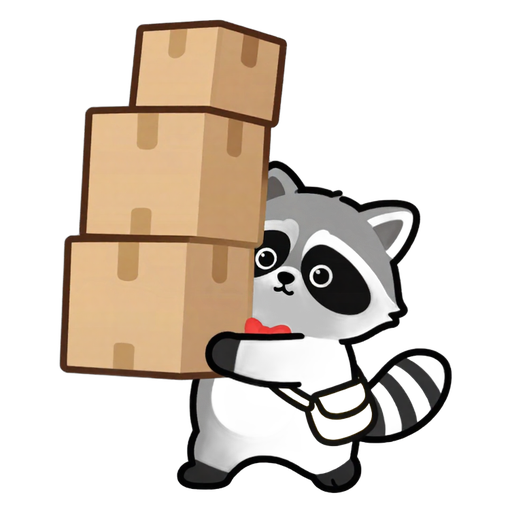
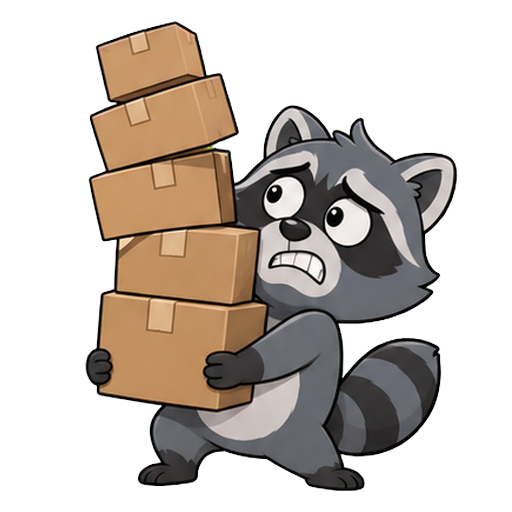
feat: 花生、小老鼠、楊捷睿、狗狗警長換新造型；冷、捷、睿用上新姿勢
五個明星都改用 Codex 生的九宮格，各 27 個姿勢、同一種畫風。
小老鼠改成爸爸影片裡的紅頭巾忍者造型。

diff --git a/src/anim/clips/捷.ts b/src/anim/clips/捷.ts
@@ -5,7 +5,7 @@ import { FIXED_LINES } from '../../../shared/voice-lines.mjs'
 // 捷（v2）：楊捷睿要搭捷運——每次他跑到車門口、手一伸，捷運就「咻」地開走，那陣風把他捲得一次比一次遠：
 // 原地轉一圈（扌從他伸出去的手飛出來）、滾到畫面邊、先停一拍再被捲上天（右邊從捷運剛停的地方飛起來）。
 // 回馬槍：捷運再進站，這次他搶先跳上車頂比 ✌——捷運「咻」地從他腳底下開走，他懸在半空傻眼，才掉下來。
-// 最後畫面暗下來只剩「捷」，他轉向觀眾問「這是什麼字？」，等他回答，再跳起來指著它說「捷！」，然後退場只留字。
+// 最後畫面暗下來只剩「捷」，他轉向觀眾問「這是什麼字？」，手放耳邊等他回答，再跳起來指著它說「捷！」，然後退場只留字。
 // 捷、捷、捷運、這是什麼字？、捷
 const P = 66.9 // 楊捷睿（size 24）站在地上的 y
 const T = 54.3 // 捷運（size 54）
@@ -71,7 +71,8 @@ const clip: Clip = {
   bg: { top: '#CFE8FF', bottom: '#F2F8FF', floor: '#B9C0C8', scenery: 'city' },
   actors: [
     { id: 'train', emoji: '🚈', x: TX, y: T, size: 54, flip: true },
-    { id: 'yang', emoji: 'hero:yang/idle', x: HOME, y: P, size: 24, hidden: true },
+    // 姿勢圖朝左，翻過來面向右邊的捷運（問他時也面向右邊的字）
+    { id: 'yang', emoji: 'hero:yang/idle', x: HOME, y: P, size: 24, hidden: true, flip: true },
   ],
   moves: [
     // 楊捷睿登場，抬頭看字框，看到捷運：要坐！
@@ -79,6 +80,7 @@ const clip: Clip = {
     { at: 0.5, actor: 'yang', do: 'swap', emoji: 'hero:yang/happy' },
     // 第 1 次：跑到車門口、手一伸——咻，傻眼，原地轉一圈退回去
     { at: 1.0, actor: 'yang', do: 'moveTo', to: { x: DOOR, y: P }, dur: 0.4 },
+    { at: 1.35, actor: 'yang', do: 'swap', emoji: 'hero:yang/reach' },
     { at: 1.35, actor: 'yang', do: 'tilt', amount: -12, dur: 0.3 },
     ...z1.moves,
     { at: H1 + HOLD, actor: 'yang', do: 'moveTo', to: { x: HOME, y: P }, arc: 6, dur: 0.35, ease: 'out' },
@@ -87,6 +89,7 @@ const clip: Clip = {
     // 第 2 次：再跑過去——咻，傻眼，整個人滾到畫面邊
     { at: 2.5, actor: 'yang', do: 'swap', emoji: 'hero:yang/idle' },
     { at: 2.95, actor: 'yang', do: 'moveTo', to: { x: DOOR, y: P }, dur: 0.4, ease: 'in' },
+    { at: 3.3, actor: 'yang', do: 'swap', emoji: 'hero:yang/reach' },
     { at: 3.3, actor: 'yang', do: 'tilt', amount: -12, dur: 0.3 },
     ...z2.moves,
     { at: H2 + HOLD, actor: 'yang', do: 'moveTo', to: { x: 14, y: P }, dur: 0.45, ease: 'out' },
@@ -98,6 +101,7 @@ const clip: Clip = {
     { at: 4.95, actor: 'yang', do: 'moveTo', to: { x: DOOR, y: P }, dur: 0.5 },
     { at: 5.45, actor: 'yang', do: 'swap', emoji: 'hero:yang/think' },
     { at: 5.5, actor: 'yang', do: 'tilt', amount: -8, dur: 0.4 },
+    { at: H3 - 0.25, actor: 'yang', do: 'swap', emoji: 'hero:yang/reach' },
     { at: 5.4, actor: 'train', do: 'shake', amount: 0.5, dur: 0.2 },
     ...z3.moves,
     { at: H3 + HOLD, actor: 'yang', do: 'moveTo', to: { x: 200, y: 30 }, dur: 0.4, ease: 'in' },
@@ -114,20 +118,23 @@ const clip: Clip = {
     { at: 9.55, actor: 'yang', do: 'moveTo', to: { x: ROOF_X, y: ROOF_Y }, arc: 10, dur: 0.4, ease: 'out' },
     ...z4.moves,
     { at: H4 + 0.55, actor: 'yang', do: 'moveTo', to: { x: ROOF_X, y: P }, dur: 0.25, ease: 'in' },
-    { at: H4 + 0.8, actor: 'yang', do: 'swap', emoji: 'hero:yang/dizzy' },
+    { at: H4 + 0.8, actor: 'yang', do: 'swap', emoji: 'hero:yang/flat' },
     // 問他：他變大、走到左前方，轉向觀眾
     { at: 11.15, actor: 'yang', do: 'swap', emoji: 'hero:yang/idle' },
     { at: 11.15, actor: 'yang', do: 'scaleTo', amount: 1.5, dur: 0.3, ease: 'back' },
     { at: 11.15, actor: 'yang', do: 'moveTo', to: { x: 34, y: P + 4 }, dur: 0.3 },
     // 安靜等他回答：身體往字那邊傾、點兩下頭
+    { at: 12.15, actor: 'yang', do: 'swap', emoji: 'hero:yang/listen' },
     { at: 12.15, actor: 'yang', do: 'rotateTo', amount: 10, dur: 0.3 },
     { at: 12.65, actor: 'yang', do: 'hop', amount: 1.5, dur: 0.3 },
     { at: 13.15, actor: 'yang', do: 'hop', amount: 1.5, dur: 0.3 },
     // 回答：跳起來
     { at: 13.6, actor: 'yang', do: 'rotateTo', amount: -10, dur: 0.12 },
-    { at: 13.6, actor: 'yang', do: 'swap', emoji: 'hero:yang/happy' },
+    { at: 13.6, actor: 'yang', do: 'swap', emoji: 'hero:yang/point' },
     { at: 13.6, actor: 'yang', do: 'hop', amount: 6, dur: 0.2 },
     // 退場，畫面只留下字
+    { at: 13.78, actor: 'yang', do: 'swap', emoji: 'hero:yang/happy' },
+    { at: 13.78, actor: 'yang', do: 'flip' },
     { at: 13.78, actor: 'yang', do: 'moveTo', to: { x: -45, y: P + 4 }, dur: 0.2, ease: 'in' },
   ],
   builds: [
@@ -161,7 +168,6 @@ const clip: Clip = {
     { at: 9.95, kind: 'pop', actor: 'yang', emoji: '✌', dx: 13, dy: 9, dur: 0.35, scale: 1.2 },
     ...z4.fx,
     { at: H4 + 0.1, kind: 'pop', actor: 'yang', emoji: '❗', dx: 13, dy: 9, dur: 0.45, scale: 1.3 },
-    { at: 12.2, kind: 'pop', actor: 'yang', emoji: '👂', dx: 6, dy: 6, dur: 1.3, scale: 1.3 },
     { at: 13.6, kind: 'burst', x: 100, y: 38, emoji: '🌟', n: 10, dur: 0.38 },
   ],
   camera: [

diff --git a/src/anim/clips/睿.ts b/src/anim/clips/睿.ts
@@ -5,7 +5,7 @@ import { FIXED_LINES } from '../../../shared/voice-lines.mjs'
 // 睿（v2）：大猩猩想把大禮物撞開——每次搥胸、衝過去用肚子撞，禮物都「啵ㄧㄛ」一下把他彈回去，一次比一次遠：
 // 彈回原地（睿的上半部從禮物彈出來）、滾到畫面邊（再一塊）、先停一拍再被彈上天（傻眼睜大的眼睛變成「目」）。
 // 回馬槍：他第四次衝過來時，楊捷睿只是輕輕一拉緞帶，包裝紙「碰」地散開（睿智）——大猩猩撲了個空，一頭栽進盒子裡，只剩兩隻腳在外面踢。
-// 最後畫面暗下來只剩「睿」，楊捷睿轉向觀眾問「這是什麼字？」，等他回答，再跳起來說「睿！」，然後退場只留字。
+// 最後畫面暗下來只剩「睿」，楊捷睿轉向觀眾問「這是什麼字？」，手放耳邊等他回答，再跳起來指著字說「睿！」，然後退場只留字。
 // 睿、睿、睿智、這是什麼字？、睿
 const P = 66.9 // 楊捷睿（size 24）站在地上的 y
 const G = 65.2 // 大猩猩（size 28）
@@ -88,7 +88,8 @@ const clip: Clip = {
     { id: 'gift', emoji: '🎁', x: BX, y: BOX, size: 34 },
     // 被拉開的蝴蝶結（打開那一刻從盒子上彈飛）
     { id: 'bow', emoji: '🎀', x: BX, y: 44, size: 14, hidden: true, float: true },
-    { id: 'yang', emoji: 'hero:yang/idle', x: YX, y: P, size: 24, hidden: true },
+    // 姿勢圖朝左，翻過來面向右邊的大猩猩和禮物（問他時也面向右邊的字）
+    { id: 'yang', emoji: 'hero:yang/idle', x: YX, y: P, size: 24, hidden: true, flip: true },
   ],
   moves: [
     // 楊捷睿登場，抬頭看字框
@@ -119,10 +120,13 @@ const clip: Clip = {
     { at: 8.5, actor: 'yang', do: 'scaleTo', amount: BIG, dur: 0.3, ease: 'back' },
     { at: 8.5, actor: 'ape', do: 'moveTo', to: { x: HOME4, y: -45 }, dur: 0.01 },
     { at: 8.55, actor: 'ape', do: 'moveTo', to: { x: HOME4, y: G }, dur: 0.3, ease: 'in' },
-    // 他對大猩猩比「等一下」
-    { at: 8.85, actor: 'yang', do: 'swap', emoji: 'hero:yang/think' },
+    // 他轉向左邊的大猩猩比「等一下」
+    { at: 8.85, actor: 'yang', do: 'flip' },
+    { at: 8.85, actor: 'yang', do: 'swap', emoji: 'hero:yang/wait' },
     { at: 8.85, actor: 'yang', do: 'tilt', amount: -6, dur: 0.3 },
     // 輕輕拉蝴蝶結——啵！打開了，氣球冒出來（睿智）
+    { at: 9.1, actor: 'yang', do: 'flip' },
+    { at: 9.1, actor: 'yang', do: 'swap', emoji: 'hero:yang/reach' },
     { at: 9.1, actor: 'yang', do: 'tilt', amount: -8, dur: 0.3 },
     { at: OPEN, actor: 'yang', do: 'swap', emoji: 'hero:yang/happy' },
     { at: OPEN, actor: 'gift', do: 'swap', emoji: '📦' },
@@ -146,15 +150,18 @@ const clip: Clip = {
     { at: 11.15, actor: 'yang', do: 'swap', emoji: 'hero:yang/idle' },
     { at: 11.15, actor: 'yang', do: 'scaleTo', amount: 1.5 / BIG, dur: 0.3, ease: 'back' },
     { at: 11.15, actor: 'yang', do: 'moveTo', to: { x: 34, y: P + 4 }, dur: 0.3 },
-    // 安靜等他回答：身體往字那邊傾、點兩下頭
+    // 安靜等他回答：手放耳邊、身體往字那邊傾、點兩下頭
+    { at: 12.15, actor: 'yang', do: 'swap', emoji: 'hero:yang/listen' },
     { at: 12.15, actor: 'yang', do: 'rotateTo', amount: 10, dur: 0.3 },
     { at: 12.65, actor: 'yang', do: 'hop', amount: 1.5, dur: 0.3 },
     { at: 13.15, actor: 'yang', do: 'hop', amount: 1.5, dur: 0.3 },
-    // 回答：跳起來
+    // 回答：跳起來指著字
     { at: 13.6, actor: 'yang', do: 'rotateTo', amount: -10, dur: 0.12 },
-    { at: 13.6, actor: 'yang', do: 'swap', emoji: 'hero:yang/happy' },
+    { at: 13.6, actor: 'yang', do: 'swap', emoji: 'hero:yang/point' },
     { at: 13.6, actor: 'yang', do: 'hop', amount: 6, dur: 0.2 },
     // 退場，畫面只留下字
+    { at: 13.78, actor: 'yang', do: 'swap', emoji: 'hero:yang/happy' },
+    { at: 13.78, actor: 'yang', do: 'flip' },
     { at: 13.78, actor: 'yang', do: 'moveTo', to: { x: -45, y: P + 4 }, dur: 0.2, ease: 'in' },
   ],
   builds: [
@@ -184,7 +191,6 @@ const clip: Clip = {
     ...c3.fx,
     { at: 8.85, kind: 'dizzy', actor: 'ape', dur: 0.45 },
     // 「等一下」
-    { at: 8.85, kind: 'pop', actor: 'yang', emoji: '✋', dx: -14, dy: 6, dur: 0.45, scale: 1.8 },
     // 手邊短短一段緞帶：輕輕一拉
     { at: 9.05, dur: OPEN - 9.05 + 0.03, kind: 'line', actor: 'gift', to: { x: BY + 9, y: 54 }, color: '#F5B700', width: 2.6, dy: 2 },
     // 啵！打開了：氣球、✨ 一圈冒出來
@@ -194,7 +200,6 @@ const clip: Clip = {
     { at: H4 + 0.3, kind: 'burst', x: STUCK.x, y: 44, n: 1, dur: 0.4, scale: 2.8 },
     { at: H4 + 0.35, kind: 'pop', x: STUCK.x - 24, y: 44, emoji: '😳', dur: 0.65, scale: 2.2 },
     { at: H4 + 0.35, kind: 'burst', actor: 'yang', emoji: '⭐', n: 6, dur: 0.5 },
-    { at: 12.2, kind: 'pop', actor: 'yang', emoji: '👂', dx: 6, dy: 6, dur: 1.3, scale: 1.3 },
     { at: 13.6, kind: 'burst', x: 100, y: 38, emoji: '🌟', n: 10, dur: 0.38 },
   ],
   camera: [

diff --git a/src/anim/clips/冷.ts b/src/anim/clips/冷.ts
@@ -5,7 +5,7 @@ import { FIXED_LINES } from '../../../shared/voice-lines.mjs'
 // 冷（v2）：大熱天，浣熊花生熱到冒汗——每次跑去抱大冰塊，冰塊一抖，他就「喀」地被凍成一塊冰，一次比一次大塊：
 // 剛好包住他（裂開，冰的兩點 冫 噴出來）、大一號連人帶冰滑到畫面邊（令的上半）、先停一拍再凍成超大一塊、裂開把他炸上天（令的下半）。
 // 回馬槍：他學乖了，站得遠遠的不碰，只吹冰塊吹過來的冷氣（冷氣）——冰塊一抖，冷風一吹，他還是被凍成最大的一塊，連冰塊一起碎掉。
-// 最後畫面暗下來只剩「冷」，花生轉向觀眾問「這是什麼字？」，等他回答，再敬禮說「冷！」，然後退場只留字。
+// 最後畫面暗下來只剩「冷」，花生轉向觀眾問「這是什麼字？」，手放耳邊等他回答，再指著字說「冷！」，然後退場只留字。
 // 冷、冷、冷氣、這是什麼字？、冷
 const P = 66.9 // 花生（size 24）站在地上的 y
 const I = 62.7 // 大冰塊（size 34）
@@ -40,13 +40,14 @@ function freeze(at: number, k: number, x: number, hug = true) {
     { at: at - 0.05, actor: 'shell', do: 'moveTo', to: { x, y: S }, dur: 0.01 },
     { at, actor: 'shell', do: 'pop', dur: 0.12 },
     { at, actor: 'shell', do: 'scaleTo', amount: SHELL[k], dur: 0.18, ease: 'back' },
-    { at, actor: 'raccoon', do: 'swap', emoji: 'hero:raccoon/surprised' },
+    { at, actor: 'raccoon', do: 'swap', emoji: 'hero:raccoon/cold' },
     { at, actor: 'raccoon', do: 'tint', filter: COLD },
     { at, actor: 'raccoon', do: 'squash', amount: 0.15, dur: 0.2 },
     { at, actor: 'ice', do: 'squash', amount: 0.12, dur: 0.2 },
   ]
   if (hug) moves.push(
-    // 張開手撲過去抱
+    // 伸手撲過去抱
+    { at: at - 0.3, actor: 'raccoon', do: 'swap', emoji: 'hero:raccoon/reach' },
     { at: at - 0.3, actor: 'raccoon', do: 'squash', amount: -0.18, dur: 0.25 },
     { at: at - 0.3, actor: 'raccoon', do: 'tilt', amount: 10, dur: 0.3 },
   )
@@ -97,7 +98,8 @@ const clip: Clip = {
   bg: { top: '#FFD39A', bottom: '#FFF2DC', floor: '#EDC98A', scenery: 'desert' },
   actors: [
     { id: 'ice', emoji: '🧊', x: IX, y: I, size: 34 },
-    { id: 'raccoon', emoji: 'hero:raccoon/idle', x: HOME, y: P, size: 24, hidden: true },
+    // 姿勢圖朝左，翻過來面向右邊的大冰塊（問他時也面向右邊的字）
+    { id: 'raccoon', emoji: 'hero:raccoon/idle', x: HOME, y: P, size: 24, hidden: true, flip: true },
     // 包住花生的冰殼（畫在他前面、半透明）
     { id: 'shell', emoji: '🧊', x: REACH, y: S, size: 30, hidden: true, tint: GLASS },
   ],
@@ -155,16 +157,18 @@ const clip: Clip = {
     { at: 10.65, actor: 'raccoon', do: 'swap', emoji: 'hero:raccoon/idle' },
     { at: 10.65, actor: 'raccoon', do: 'scaleTo', amount: 1.5 / BIG, dur: 0.3, ease: 'back' },
     { at: 10.65, actor: 'raccoon', do: 'moveTo', to: { x: 34, y: P + 4 }, dur: 0.3 },
-    // 安靜等他回答：身體往字那邊傾、點兩下頭
+    // 安靜等他回答：手放耳邊、身體往字那邊傾、點兩下頭
+    { at: 11.8, actor: 'raccoon', do: 'swap', emoji: 'hero:raccoon/listen' },
     { at: 11.8, actor: 'raccoon', do: 'rotateTo', amount: 10, dur: 0.3 },
     { at: 12.35, actor: 'raccoon', do: 'hop', amount: 1.5, dur: 0.3 },
     { at: 12.85, actor: 'raccoon', do: 'hop', amount: 1.5, dur: 0.3 },
-    // 回答：跳起來敬禮
+    // 回答：跳起來指著字
     { at: 13.3, actor: 'raccoon', do: 'rotateTo', amount: -10, dur: 0.12 },
-    { at: 13.3, actor: 'raccoon', do: 'swap', emoji: 'hero:raccoon/salute' },
+    { at: 13.3, actor: 'raccoon', do: 'swap', emoji: 'hero:raccoon/point' },
     { at: 13.3, actor: 'raccoon', do: 'hop', amount: 6, dur: 0.25 },
     // 退場，畫面只留下字
     { at: 13.6, actor: 'raccoon', do: 'swap', emoji: 'hero:raccoon/happy' },
+    { at: 13.6, actor: 'raccoon', do: 'flip' },
     { at: 13.62, actor: 'raccoon', do: 'moveTo', to: { x: -45, y: P + 4 }, dur: 0.25, ease: 'in' },
   ],
   builds: [
@@ -207,7 +211,6 @@ const clip: Clip = {
     ...f4.fx,
     { at: C4, kind: 'burst', x: 96, y: 45, emoji: '🧊', n: 12, dur: 0.55, scale: 1.8 },
     { at: C4, kind: 'burst', x: 96, y: 45, n: 1, dur: 0.4, scale: 3 },
-    { at: 11.8, kind: 'pop', actor: 'raccoon', emoji: '👂', dx: 6, dy: 6, dur: 1.3, scale: 1.3 },
     { at: 13.3, kind: 'burst', x: 98, y: 38, emoji: '🌟', n: 10, dur: 0.38 },
   ],
   camera: [

diff --git a/src/play/poses.ts b/src/play/poses.ts
@@ -4,7 +4,7 @@
  * 好的幼兒 App 裡，角色是陪你玩的人：一直在呼吸、會看你的手指、你答對他跳起來、
  * 你點錯他歪頭想一下（不是生氣）。這裡只放資料與純函式，畫面在 Buddy.tsx。
  *
- * 每位主角有幾張姿勢圖（idle、happy、surprised、dizzy…，`npm run hero` 產生的），
+ * 每位主角有幾張姿勢圖（idle、happy、surprised、dizzy…，`npm run hero` 或 `npm run hero:cut` 產生的），
  * 但不是每位都有同一組：反應要換姿勢時，先找這位有沒有那張，沒有就退回 idle，只靠動作演。
  */
 
@@ -18,17 +18,18 @@ export const POSES: Record<string, string[]> = {
   dino: ['dizzy', 'happy', 'idle', 'reach', 'roar', 'surprised'],
   firefighter: ['dizzy', 'happy', 'hose', 'idle', 'ladder', 'surprised'],
   monster: ['dizzy', 'happy', 'idle', 'oops', 'roar', 'sleep', 'stuffed', 'surprised'],
-  mouse: ['cheese', 'dizzy', 'happy', 'idle', 'sneak', 'surprised'],
+  mouse: ['angry', 'back', 'cheese', 'cold', 'cry', 'dash', 'dizzy', 'eat', 'fall', 'flat', 'happy', 'idle', 'laugh', 'listen', 'point', 'ponder', 'push', 'reach', 'scared', 'sleep', 'smug', 'sneak', 'stance', 'surprised', 'think', 'wait', 'walk', 'wave'],
   ninja: ['dizzy', 'happy', 'hide', 'idle', 'surprised', 'throw'],
-  // 豬探長：從綠幕姿勢表切（npm run hero:cut -- pig，assets/hero-sheets/pig-A/B/C.png）
+  // 五個明星（豬探長、花生、小老鼠、楊捷睿、狗狗警長）：從綠幕姿勢表切（npm run hero:cut -- <主角>，assets/hero-sheets/）。
+  // 都有同一套 27 個姿勢＋各自兩個招牌姿勢；沒有放大鏡的 think 跟托下巴的 ponder 同一張，警長舊的 run 跟 dash 同一張
   pig: ['angry', 'back', 'cold', 'cry', 'dash', 'dizzy', 'doubt', 'eat', 'fall', 'flat', 'happy', 'idle', 'laugh', 'listen', 'point', 'ponder', 'push', 'reach', 'scared', 'sleep', 'smug', 'sneak', 'surprised', 'think', 'wait', 'walk', 'wave'],
   pirate: ['dizzy', 'happy', 'idle', 'surprised', 'telescope', 'treasure'],
-  raccoon: ['carry', 'dizzy', 'happy', 'idle', 'salute', 'surprised'],
+  raccoon: ['angry', 'back', 'carry', 'cold', 'cry', 'dash', 'dizzy', 'eat', 'fall', 'flat', 'happy', 'idle', 'laugh', 'listen', 'point', 'ponder', 'push', 'reach', 'salute', 'scared', 'sleep', 'smug', 'sneak', 'surprised', 'think', 'wait', 'walk', 'wave'],
   robot: ['broken', 'dizzy', 'fly', 'happy', 'idle', 'surprised'],
   shark: ['chomp', 'dizzy', 'happy', 'idle', 'spin', 'surprised'],
-  sheriff: ['dizzy', 'happy', 'idle', 'run', 'surprised', 'whistle'],
+  sheriff: ['angry', 'back', 'cold', 'cry', 'dash', 'dizzy', 'eat', 'fall', 'flat', 'happy', 'idle', 'laugh', 'listen', 'point', 'ponder', 'push', 'reach', 'run', 'salute', 'scared', 'sleep', 'smug', 'sneak', 'surprised', 'think', 'wait', 'walk', 'wave', 'whistle'],
   warrior: ['dizzy', 'happy', 'idle', 'shield', 'surprised', 'swing'],
-  yang: ['dizzy', 'drive', 'happy', 'idle', 'surprised', 'think'],
+  yang: ['angry', 'back', 'cold', 'cry', 'dash', 'dizzy', 'drive', 'eat', 'fall', 'flat', 'happy', 'helmet', 'idle', 'laugh', 'listen', 'point', 'ponder', 'push', 'reach', 'scared', 'sleep', 'smug', 'sneak', 'surprised', 'think', 'wait', 'walk', 'wave'],
 }
 
 /**

diff --git a/scripts/hero-cut.py b/scripts/hero-cut.py
@@ -147,6 +147,12 @@ for pose, (im, s) in crops.items():
     sheet.save(out / f'{pose}.png', optimize=True)
     print(f'  {pose}：{im.width}×{im.height} → {w}×{h}')
 
+# 同一張圖兩個名字（例如花生、小老鼠沒有放大鏡，think 就是托下巴的 ponder），劇本兩個都能寫
+for pose, same in cfg.get('alias', {}).items():
+    if same in crops:
+        shutil.copyfile(out / f'{same}.png', out / f'{pose}.png')
+        print(f'  {pose}：跟 {same} 同一張')
+
 # 還沒生出來的姿勢先借別張頂著（例如 think 要等 C 表的「拿放大鏡」，先用 B 表的托下巴）
 for pose, stand_in in cfg.get('fallback', {}).items():
     if pose not in crops and stand_in in crops:

diff --git a/assets/hero-sheets/README.md b/assets/hero-sheets/README.md
@@ -5,7 +5,7 @@
 
 ## 怎麼來的
 
-- 2026-11 用 Codex 的生圖工具畫的（爸爸同意）。參考圖取自爸爸 FamilyCreation 資料夾裡孩子看熟的影片（豬探長那幾支的截圖），
+- 2026-11 用 Codex 的生圖工具畫的（爸爸同意）。參考圖取自爸爸 FamilyCreation 資料夾裡孩子看熟的影片（各明星那幾支的截圖），
   所以長相是他認得的那一隻；參考圖本身不放進 repo（那批影片裡也有別人的角色與家人的臉）。
 - 一張表 9 個姿勢是同一次畫的，長相、比例、上色都一致——比一張一張畫（`scripts/hero.mjs`）穩定得多。
 - 檔名：`<主角>-<表>.png`，例如 `pig-A.png`（A 表情、B 動作、C 道具與生活動作）。
@@ -17,15 +17,31 @@
 - 每格全身入鏡、同樣身高與頭身比、腳站在同一條水平線（跳起來、坐著、趴著的例外）、身體朝畫面左前方。
 - 角色身上不要有綠色（反光、配件）；淚水、汗滴用淺藍沒關係，去背會留著。
 
-## 豬探長（`pig`）各格的姿勢（左到右、上到下）
+## 各格的姿勢（左到右、上到下）
+
+五個明星（豬探長、浣熊花生、小老鼠、楊捷睿、狗狗警長）的 A、B 表一模一樣；C 表 1、2 格是各自的招牌姿勢，3～9 格一樣。
 
 | 表 | 1 | 2 | 3 | 4 | 5 | 6 | 7 | 8 | 9 |
 |---|---|---|---|---|---|---|---|---|---|
 | A | `idle` 站好微笑 | `happy` 開心跳 | `laugh` 捧腹大笑 | `surprised` 傻眼 | `dizzy` 頭暈坐地 | `angry` 生氣叉腰 | `cry` 大哭 | `scared` 害怕發抖 | `smug` 得意 |
 | B | `reach` 伸手 | `point` 指斜上方 | `listen` 手放耳邊等回答 | `ponder` 托下巴想 | `walk` 大步走 | `sneak` 踮腳偷溜 | `flat` 被壓扁 | `wait` 比「等一下」 | `back` 背對回頭看 |
-| C | `think` 拿放大鏡湊近看 | `doubt` 抱胸斜眼 | `sleep` 趴著睡 | `eat` 張嘴吃 | `dash` 衝刺 | `fall` 跌坐 | `wave` 揮手 | `push` 用力推 | `cold` 冷到發抖 |
+| C | 招牌 1 | 招牌 2 | `sleep` 趴著睡 | `eat` 張嘴吃 | `dash` 衝刺 | `fall` 跌坐 | `wave` 揮手 | `push` 用力推 | `cold` 冷到發抖 |
 
-對應寫在 `src/anim/heroes/pig.cut.json`。（還沒生出來的表可以設 `optional`，再用 `fallback` 先借別的姿勢頂著，劇本才不會指到不存在的圖。）
+| 明星 | 檔名 | 角色（生圖 prompt 的「角色：」那一行） | C 表招牌 1 | C 表招牌 2 |
+|---|---|---|---|---|
+| 豬探長 | `pig-*.png` | 圓滾滾的粉紅小豬，戴棕色格紋獵鹿帽，穿米色雙排扣風衣、白襯衫、棕色領帶、深棕色褲子與鞋子 | `think` 拿放大鏡湊近看 | `doubt` 抱胸斜眼 |
+| 浣熊花生 | `raccoon-*.png` | 圓滾滾的灰色浣熊，黑色眼罩花紋、白色肚子、灰黑相間的條紋大尾巴，沒有穿衣服（舊貼紙的領結、斜背包拿掉了） | `carry` 抱一大疊箱子 | `salute` 敬禮 |
+| 小老鼠 | `mouse-*.png` | 忍者小老鼠——灰色小老鼠，圓滾滾的大耳朵有粉紅色耳廓，綁紅色頭巾，穿深藍色忍者服、紅色腰帶，有一條細長的尾巴 | `cheese` 抱起司 | `stance` 忍者架式 |
+| 楊捷睿 | `yang-*.png` | 約六歲的卡通小男孩，短黑髮、圓圓的大眼睛，穿紅色賽車外套（有一道黃色閃電條紋）、藍色短褲、白色球鞋，Q 版比例 | `drive` 坐著握方向盤（只有方向盤沒有車） | `helmet` 戴紅色安全帽比讚 |
+| 狗狗警長 | `sheriff-*.png` | 金黃色的拉布拉多犬警長，垂耳，戴棕色牛仔警長帽，穿淺藍色襯衫、胸前金色星星警徽，脖子掛紅繩銀色哨子，兩腳站立、Q 版比例 | `whistle` 吹哨子 | `salute` 敬禮 |
+
+- **小老鼠換了造型**：舊貼紙是沒穿衣服的調皮小老鼠；新表照爸爸影片裡的紅頭巾忍者小老鼠畫，畫風統一成跟豬探長一樣。
+  劇本裡的「小老鼠」從此是忍者打扮（跟 `hero:ninja` 是不同角色）。
+- **同一張圖兩個名字**（`.cut.json` 的 `alias`）：沒有放大鏡的四個明星，`think` 跟托下巴的 `ponder` 同一張，五個明星的姿勢名才一致；
+  警長舊劇本用的 `run` 跟 `dash` 同一張。
+- 楊捷睿的 `drive` 是坐姿＋方向盤，給 `ride(...)` 坐在車上用；圖朝左，車子朝右的話他要 `flip`。
+
+對應寫在 `src/anim/heroes/<主角>.cut.json`。（還沒生出來的表可以設 `optional`，再用 `fallback` 先借別的姿勢頂著，劇本才不會指到不存在的圖。）
 
 ## 重切
 
@@ -88,7 +104,7 @@ npm run hero:cut -- pig --out /tmp/try   # 換新表前先輸出到別處看
 8. 伸出手掌比「等一下」
 9. 背對鏡頭回頭看
 
-**C 表（道具與生活動作；每個角色的 1、2 格可以換成他的招牌動作）**
+**C 表（道具與生活動作；每個角色的 1、2 格換成他的招牌動作，見上面的表）**
 1. 拿著一個大放大鏡湊近看東西，一隻眼睛被放大
 2. 雙手抱胸，一臉不相信地斜眼看
 3. 趴在地上睡覺，閉著眼睛，很舒服的樣子

diff --git a/docs/clip-v2-plan.md b/docs/clip-v2-plan.md
@@ -63,7 +63,7 @@
 | 楊捷睿 | `yang` | 他自己：出主意的人，最後成功的通常是他 |
 
 其他主角（恐龍、怪獸、機器人⋯⋯）可以當配角或「這個字講的東西」，不當說故事的人。
-造型：豬探長已換成照 FamilyCreation 影片畫的新造型（綠幕姿勢表切的），其他明星進行中，見「還沒做的」第 5 點。
+造型：五個明星都已換成照 FamilyCreation 影片畫的新造型（綠幕姿勢表切的，同一套 27 個姿勢＋各自兩個招牌姿勢），見「還沒做的」第 5 點。
 
 ### 部件的顏色（`src/anim/parts.ts`）
 
@@ -105,11 +105,14 @@ node scripts/anim-v2-next.mjs 蝦   # 只查這個字現在能不能做
 2. **聲音**：音效從程式合成的嗶聲換成錄音素材、加拼好字的音樂記號；配音從 `say` 的 Meijia 換成比較自然的聲音（這台 Mac 有 Flo、Sandy、Shelley 等台灣中文語音可試），片型確定後爸爸錄正式版。
 3. **量學習效果**：看完當下與隔天各問一次「哪一個是 X？」，記成一種新的紀錄（`shared/play-events.mjs`）。沒有這個，「有沒有變好」只能用猜的。
 4. **讓他動手**：問句那一刻改成他點／拖最後一個部件，而不只是等。
-5. **明星的新造型**（進行中）：試過從 FamilyCreation 影片直接抽格去背——全身入鏡的格太少、鞋子常被切、光線不一，放棄。
+5. **明星的新造型**（已完成）：試過從 FamilyCreation 影片直接抽格去背——全身入鏡的格太少、鞋子常被切、光線不一，放棄。
    改用 Codex 的生圖模型、拿影片截圖當參考，畫綠幕九宮格姿勢表（`assets/hero-sheets/`，做法見那裡的 README），`npm run hero:cut` 切成姿勢圖。
-   - 豬探長：已換（A 表情、B 動作、C 道具與生活動作，27 個姿勢）。
-   - 浣熊花生、小老鼠：姿勢表生成中。
-   - 楊捷睿、狗狗警長：待定。
+   - 五個明星都已換（A 表情、B 動作跟豬探長同一套；C 表 1、2 格是各自的招牌，3～9 格是生活動作）：
+     豬探長（拿放大鏡 think、抱胸 doubt）、浣熊花生（抱一疊箱子 carry、敬禮 salute）、
+     小老鼠（抱起司 cheese、忍者架式 stance；造型改成爸爸影片裡的紅頭巾忍者小老鼠）、
+     楊捷睿（握方向盤 drive、戴安全帽比讚 helmet）、狗狗警長（吹哨子 whistle、敬禮 salute）。
+   - 沒有放大鏡的四個，think 跟托下巴的 ponder 同一張；警長舊的 run 跟衝刺的 dash 同一張（`.cut.json` 的 `alias`）。
+   - 新圖全部朝左（舊貼紙有幾張是正面）：右邊有東西要看的時候，劇本的 actor 要 `flip: true`。
    注意：FamilyCreation 的影片有龍貓、變形機器人等別人的角色，也有家人的臉，**只當參考圖，不直接放進 App**。
 
 ## 進度
